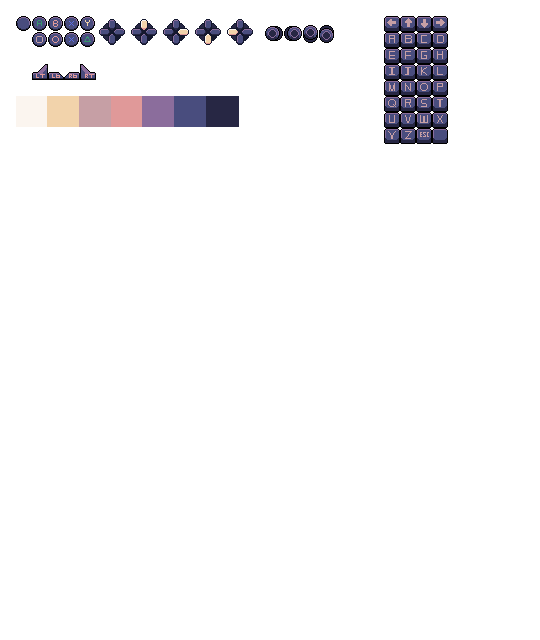
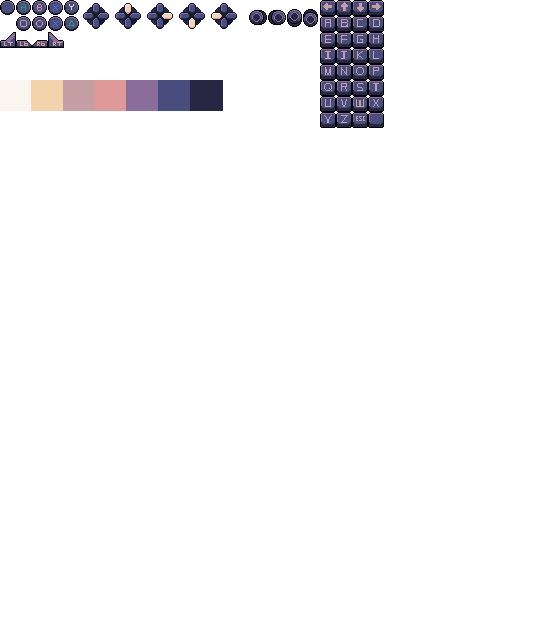
Layout for control remap menu

Changed region(s): [[0.0, 0.0, 0.8296, 0.25]]

diff --git a/js/menus/controls.js b/js/menus/controls.js
@@ -1,25 +1,44 @@
-class ControlRow {
+class ControlRow extends Input {
   constructor(props) {
+    super(props);
     this.x = props?.x || 0;
     this.y = props?.y || 0;
     this.h = props?.h || 30;
     this.w = props?.w || 0;
     this.label = props?.label || "SHOOT:";
-    this.controls = props?.controls || [];
+    this.options = props?.options || [];
     this.column_space = props?.column_space || 194;
     this.control_space = props?.control_space || 9;
+    this.currentOption = 0;
+    this.active = false;
+    this.font_size = 8;
+    this.type = "select";
   }
 
+  handler() {}
+
   update() {
-    this.controls.forEach((control, i) => {
+    this.options.forEach((control, i) => {
       control.x = this.column_space + (this.control_space + control.w) * i;
       control.y = this.y;
     });
   }
 
   draw() {
-    context.fillText(this.label, this.x, this.y + this.h / 2);
-    this.controls.forEach((control) => {
+    let rendered_label = this.label;
+    context.fillStyle = WHITE;
+    setFont(this.font_size);
+    context.fillText(
+      rendered_label.replace(/([a-z0-9])([A-Z])/g, "$1 $2").toUpperCase(),
+      this.x,
+      this.y + this.h / 2
+    );
+    this.options.forEach((control, i) => {
+      if (i === this.currentOption && this.active) {
+        control.border_color = YELLOW;
+      } else {
+        control.border_color = WHITE;
+      }
       control.draw();
     });
   }
@@ -29,14 +48,24 @@ class Control {
   constructor(props) {
     this.x = props?.x || 0;
     this.y = props?.y || 0;
-    this.h = props?.h || 30;
+    this.h = props?.h || 25;
     this.w = props?.w || 26;
     this.input = props?.input || "";
     this.image = props?.image || "";
     this.spacing = 9;
+    this.color = PURPLE;
+    this.border_color = WHITE;
+    this.border_width = 1;
   }
 
   draw() {
+    context.fillStyle = this.border_color;
+    context.fillRect(
+      this.x - this.border_width,
+      this.y - this.border_width,
+      this.w + this.border_width * 2,
+      this.h + this.border_width * 2
+    );
     context.fillStyle = this.color;
     context.fillRect(this.x, this.y, this.w, this.h);
   }
@@ -49,6 +78,8 @@ class ControlsMenu extends Menu {
     this.key = "controls";
     this.header = "CONTROLS";
     this.elements = [];
+    this.verticalSpacing = 15;
+    this.padding = -20;
   }
 
   // row cursor
@@ -56,7 +87,6 @@ class ControlsMenu extends Menu {
 
   // main section
   CONTROLS_SECTION = { x: 47, y: 50, w: 245, h: 190, rows: [] };
-  ROWS = [];
 
   // header
   DYNAMIC_HEADER = { x: 0, y: 0, w: 0, h: 0, render: false };
@@ -68,23 +98,22 @@ class ControlsMenu extends Menu {
   row_spacing = 10;
 
   addControlsToMenu(list) {
-    this.ROWS.length = 0;
+    this.elements.length = 0;
     list.forEach((item) => {
-      console.log(item);
       const new_controls = item.inputs.map((control) => {
         return new Control({ input: control, image: control });
       });
       const new_row = new ControlRow({
-        controls: [...new_controls],
+        options: [...new_controls],
         label: item.name,
       });
-      this.ROWS.push(new_row);
+      this.elements.push(new_row);
     });
   }
 
   update() {
     super.update();
-    this.ROWS.forEach((row, i) => {
+    this.elements.forEach((row, i) => {
       row.update();
       row.x = this.CONTROLS_SECTION.x;
       row.y = this.CONTROLS_SECTION.y + (this.row_spacing + row.h) * i;
@@ -93,17 +122,12 @@ class ControlsMenu extends Menu {
 
   draw() {
     super.draw();
-    context.fillStyle = WHITE;
-    context.globalAlpha = 0.5;
-    context.fillRect(
-      this.CONTROLS_SECTION.x,
-      this.CONTROLS_SECTION.y,
-      this.CONTROLS_SECTION.w,
-      this.CONTROLS_SECTION.h
-    );
-    context.globalAlpha = 1;
-
-    this.ROWS.forEach((row) => {
+    this.elements.forEach((row, i) => {
+      if (this.cursor === i) {
+        row.active = true;
+      } else {
+        row.active = false;
+      }
       row.draw();
     });
   }

diff --git a/js/core/imageloading.js b/js/core/imageloading.js
@@ -28,6 +28,7 @@ const image_list = [
   { file: "particle.png", name: "particle" },
   { file: "cometShiledsVersions/CometShieldv1.png", name: "shield" },
   { file: "missilev3.png", name: "missile" },
+  { file: "control-icons.png", name: "controls" },
   // <-- Add your sprite in here
 ];
 
